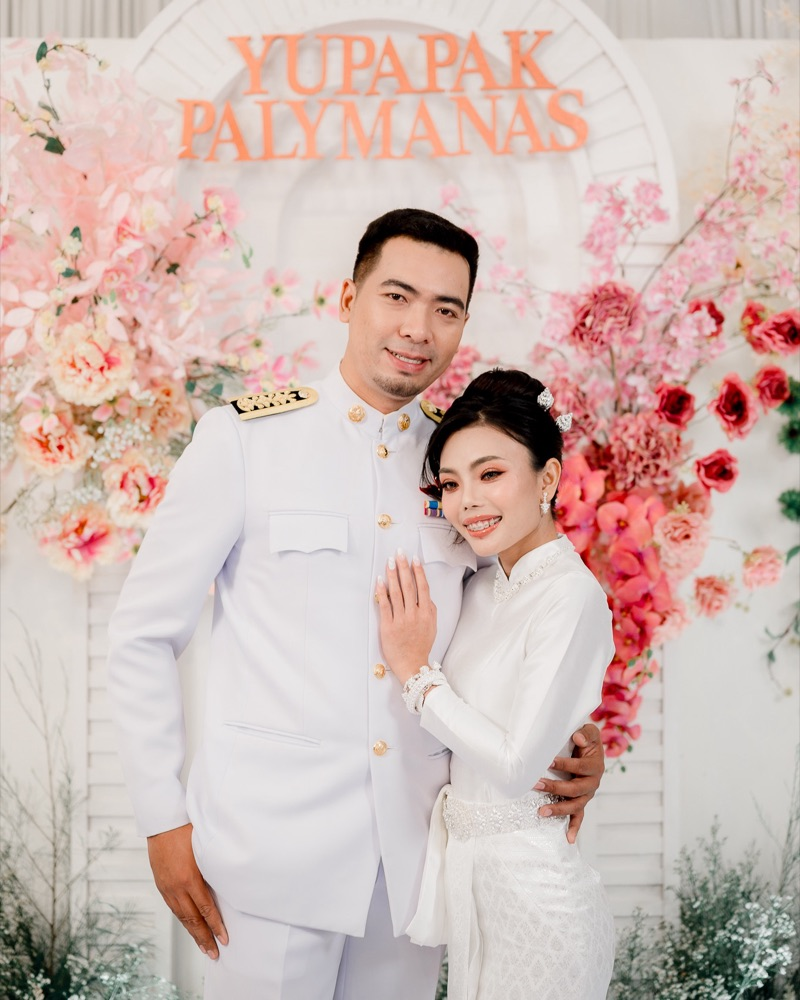
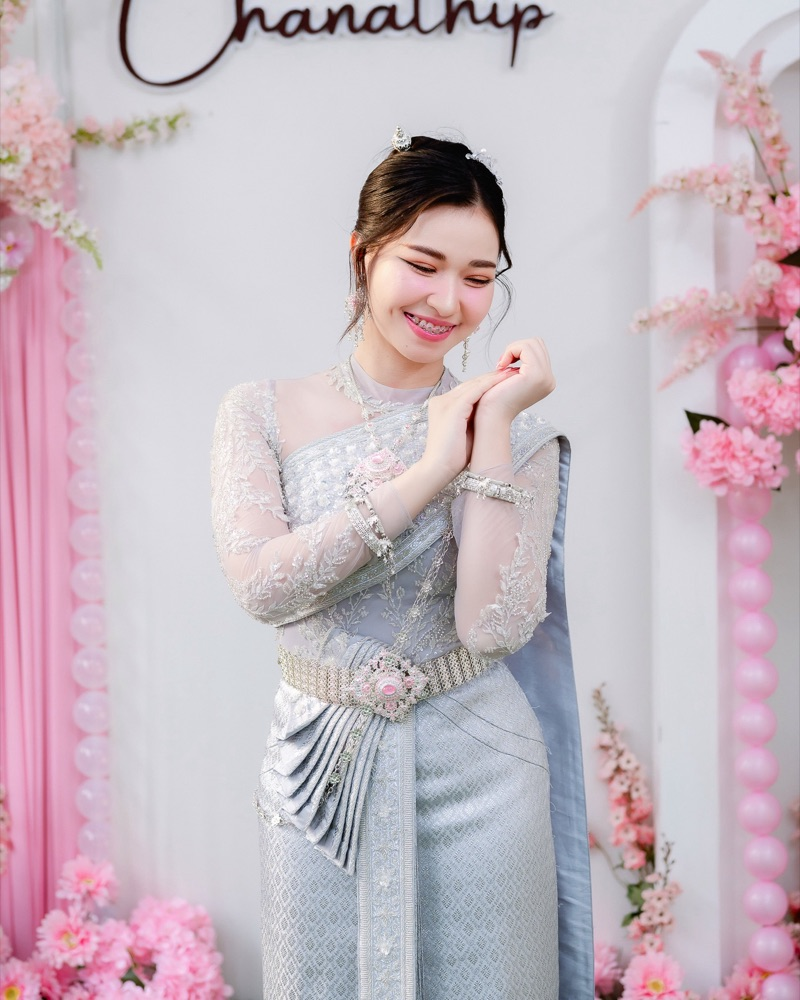
Update graduation and wedding service card photos

diff --git a/index.html b/index.html
@@ -274,7 +274,7 @@
         <div class="services__grid">
           <article class="service reveal" data-delay="0">
             <div class="service__media">
-              <img src="images/services/service-wedding.jpg" alt="เจ้าบ่าวชุดปกติขาวยืนคู่เจ้าสาวหน้าซุ้มดอกไม้ ตัวอย่างภาพงานแต่ง" width="800" height="1000" loading="lazy" decoding="async">
+              <img src="images/services/service-wedding.jpg" alt="เจ้าสาวชุดไทยสีเงินยิ้มเขินประสานมือ หน้าฉากดอกไม้สีชมพู ตัวอย่างภาพงานแต่ง" width="800" height="1000" loading="lazy" decoding="async">
             </div>
             <div class="service__body">
               <p class="service__tags">พิธีเช้า · งานเลี้ยง · พรีเวดดิ้ง</p>
@@ -293,7 +293,7 @@
 
           <article class="service reveal" data-delay="1">
             <div class="service__media">
-              <img src="images/services/service-graduation.jpg" alt="คู่บัณฑิตโผล่หน้ายิ้มจากผนังระแนงสีส้ม ตัวอย่างภาพรับปริญญา" width="800" height="1000" loading="lazy" decoding="async">
+              <img src="images/services/service-graduation.jpg" alt="บัณฑิตหญิงในชุดครุยยิ้มกว้างพิงพนักม้านั่งไม้ ตัวอย่างภาพรับปริญญา" width="800" height="1000" loading="lazy" decoding="async">
             </div>
             <div class="service__body">
               <p class="service__tags">ซ้อมใหญ่ · วันรับจริง · ถ่ายนอกรอบ</p>
